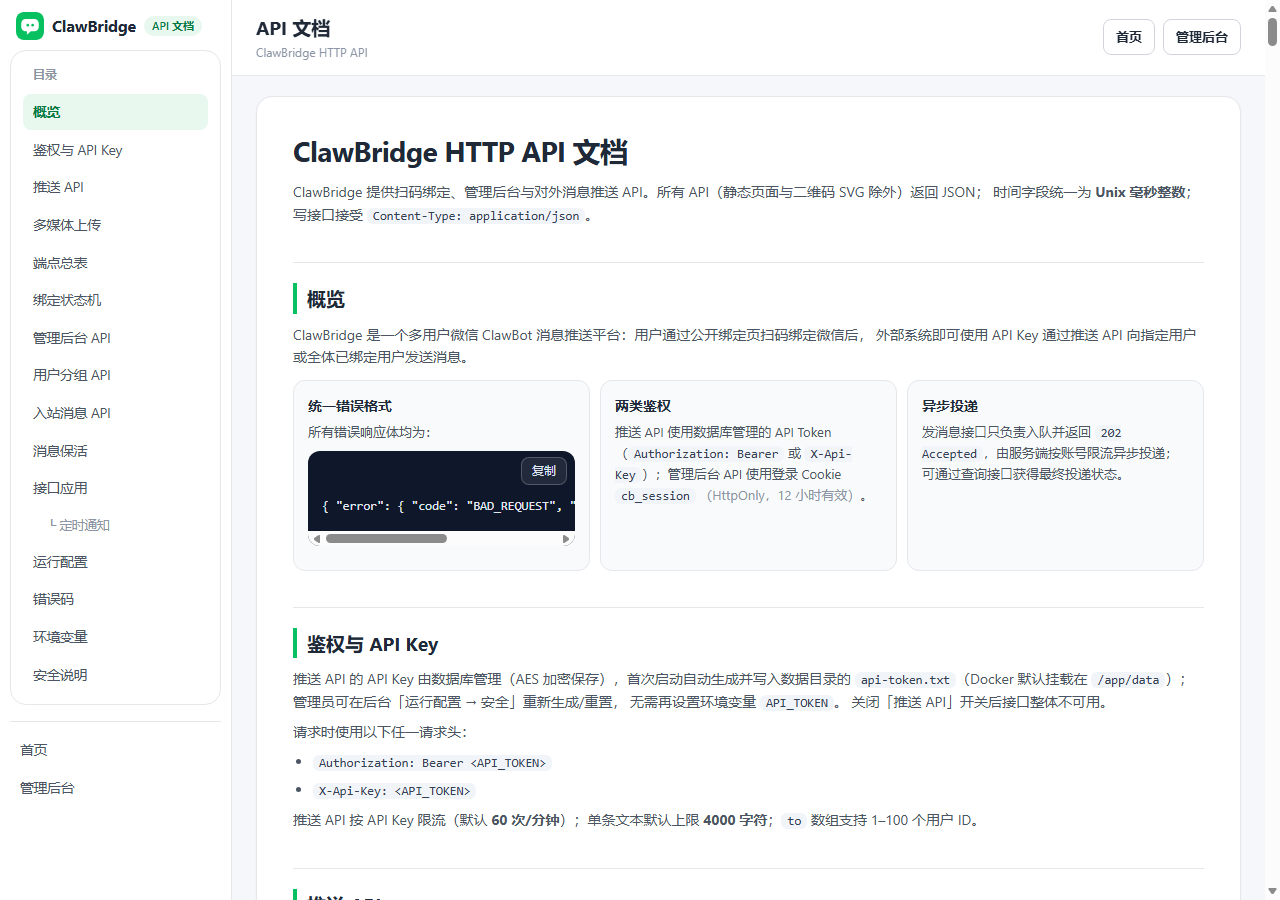
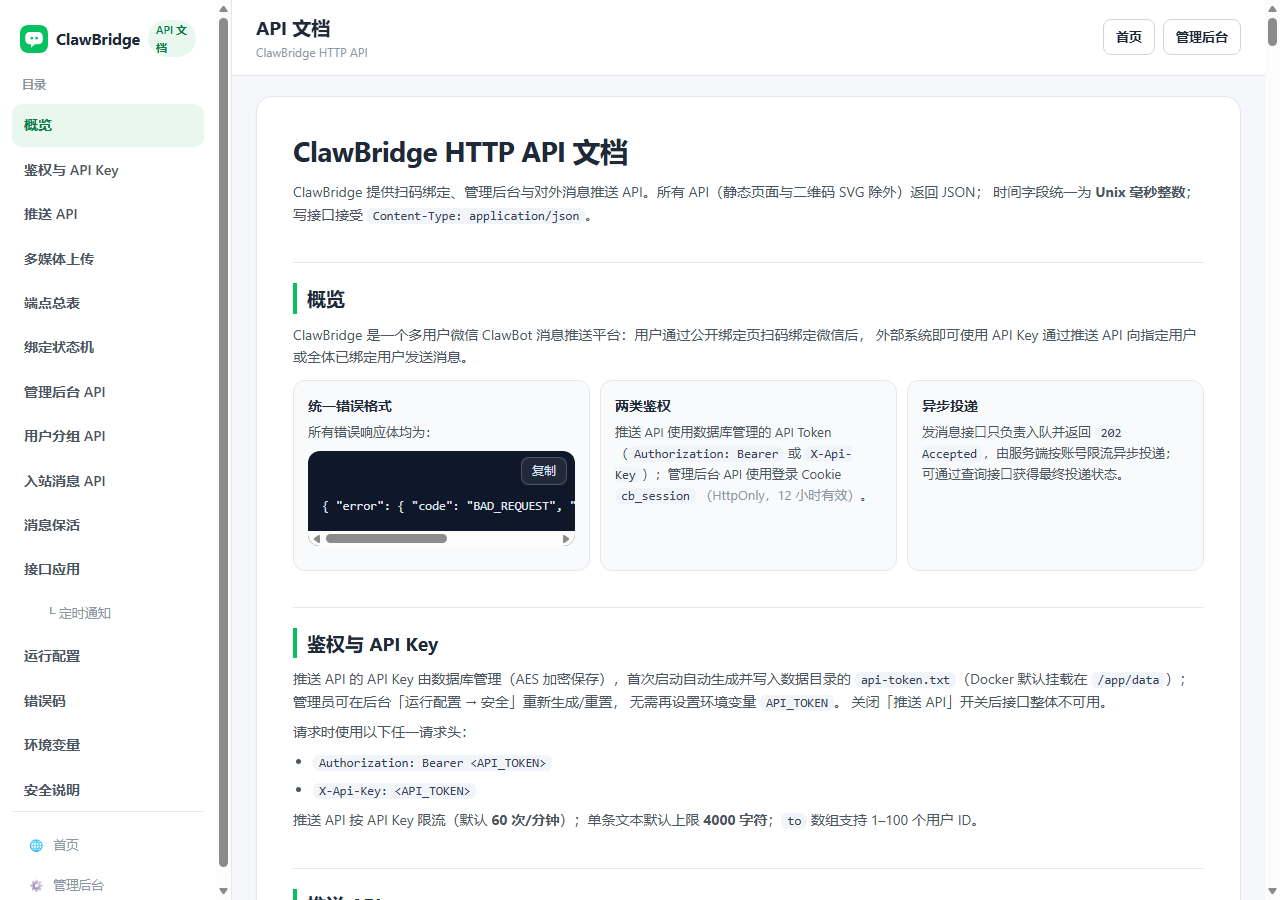
feat(ui): 首页/文档导航统一为后台式侧边栏 + 顶栏
- 首页改为与后台/文档一致的壳层：左侧品牌+导航，右侧 sticky 顶栏+内容；
  移动端 ☰ 抽屉、遮罩、×/Esc/链接自动关闭
- 文档侧栏去掉卡片式目录，链接/间距/选中态对齐后台 menu-item；
  footer 改为首页/管理后台；修复抽屉遮罩盖住侧栏的 z-index 问题
- docs/bind 共用 common.js initSidebarDrawer，减少重复逻辑
- 品牌/导航文案统一：绑定入口称首页，/bind 302 → /
- 更新 docs-page 截图；新增首页导航壳测试；全量 348/348（unit 257 + e2e 91）

diff --git a/web/index.html b/web/index.html
@@ -12,26 +12,48 @@
 <body class="page-public">
   <a class="skip-link" href="#main">跳到主要内容</a>
 
-  <header class="site-header">
-    <div class="site-header-inner">
-      <a class="brand" href="/" aria-label="ClawBridge 首页">
-        <svg class="brand-icon" viewBox="0 0 64 64" aria-hidden="true" focusable="false">
-          <rect width="64" height="64" rx="14" fill="#07C160"></rect>
-          <path d="M22 16h20a10 10 0 0 1 10 10v8a10 10 0 0 1-10 10H34l-9 8v-8h-3a10 10 0 0 1-10-10v-8a10 10 0 0 1 10-10z" fill="#ffffff"></path>
-          <circle cx="27" cy="30" r="3" fill="#07C160"></circle>
-          <circle cx="38" cy="30" r="3" fill="#07C160"></circle>
-        </svg>
-        <span class="brand-name">ClawBridge</span>
-      </a>
-      <nav class="site-nav" aria-label="主导航">
-        <a class="nav-link" href="/">首页</a>
-        <a class="nav-link" href="/docs">API 文档</a>
-        <a class="nav-link nav-link-strong" href="/admin">管理后台</a>
-      </nav>
-    </div>
-  </header>
+  <aside class="doc-sidebar">
+    <a class="brand doc-sidebar-brand" href="/" aria-label="ClawBridge 首页">
+      <svg class="brand-icon" viewBox="0 0 64 64" aria-hidden="true" focusable="false">
+        <rect width="64" height="64" rx="14" fill="#07C160"></rect>
+        <path d="M22 16h20a10 10 0 0 1 10 10v8a10 10 0 0 1-10 10H34l-9 8v-8h-3a10 10 0 0 1-10-10v-8a10 10 0 0 1 10-10z" fill="#ffffff"></path>
+        <circle cx="27" cy="30" r="3" fill="#07C160"></circle>
+        <circle cx="38" cy="30" r="3" fill="#07C160"></circle>
+      </svg>
+      <span class="brand-name">ClawBridge</span>
+      <span class="brand-tag">首页</span>
+    </a>
+    <button id="home-nav-close" class="docs-nav-close" type="button" aria-label="关闭导航">×</button>
+    <nav id="home-nav" class="doc-nav" aria-label="主导航">
+      <a class="doc-nav-link is-active" href="/"><span aria-hidden="true">🏠</span> 首页</a>
+      <a class="doc-nav-link" href="/docs"><span aria-hidden="true">📖</span> API 文档</a>
+      <a class="doc-nav-link" href="/admin"><span aria-hidden="true">⚙</span> 管理后台</a>
+    </nav>
+  </aside>
 
-  <main id="main" class="container">
+  <div id="home-nav-overlay" class="docs-nav-overlay" hidden></div>
+
+  <div class="docs-main">
+    <header class="docs-topbar">
+      <button
+        id="home-menu-toggle"
+        class="docs-menu-toggle"
+        type="button"
+        aria-label="打开导航"
+        aria-controls="home-nav"
+        aria-expanded="false"
+      >☰</button>
+      <div class="docs-topbar-title">
+        <strong>首页</strong>
+        <span>微信扫码绑定 · ClawBridge</span>
+      </div>
+      <div class="docs-topbar-actions">
+        <a class="btn btn-secondary btn-sm" href="/docs">API 文档</a>
+        <a class="btn btn-secondary btn-sm" href="/admin">管理后台</a>
+      </div>
+    </header>
+
+    <main id="main" class="docs-content"><div class="container">
     <section class="hero" aria-labelledby="hero-title">
       <span class="hero-badge">微信 ClawBot · 消息通道</span>
       <h1 id="hero-title" class="hero-title">扫码绑定微信<br class="br-mobile">接收 ClawBridge 消息</h1>
@@ -147,9 +169,10 @@
         同一网络下 1 小时内生成次数有限；如有问题请联系部署管理员。
       </p>
     </section>
-  </main>
+      </div>
+    </main>
 
-  <footer class="site-footer">
+    <footer class="site-footer">
     <p class="footer-line">
       <span class="footer-brand">ClawBridge</span>
       <span class="footer-sep">·</span>
@@ -160,7 +183,8 @@
       <a class="footer-link" href="/admin">管理后台</a>
       <a class="footer-link" href="/docs">API 文档</a>
     </p>
-  </footer>
+    </footer>
+  </div>
 
   <script type="module" src="/assets/bind.js"></script>
 </body>

diff --git a/web/assets/docs.js b/web/assets/docs.js
@@ -5,7 +5,7 @@
  * - 侧边目录高亮
  * - 返回顶部
  */
-import { $, $$, el, toast } from './common.js';
+import { $, $$, el, toast, initSidebarDrawer } from './common.js';
 
 init();
 
@@ -175,32 +175,11 @@ function initBackToTop() {
 /* ------------------------------------------------------------------ */
 
 function initTocDrawer() {
-  const toggle = $('#docs-menu-toggle');
-  const sidebar = $('.doc-sidebar');
-  const overlay = $('#docs-nav-overlay');
-  const closeButton = $('#docs-nav-close');
-  const nav = $('#docs-nav');
-  if (!toggle || !sidebar || !overlay || !closeButton || !nav) return;
-  const media = window.matchMedia('(max-width: 899px)');
-
-  const isOpen = () => document.body.classList.contains('docs-nav-open');
-  const setOpen = (open) => {
-    const active = Boolean(open && media.matches);
-    document.body.classList.toggle('docs-nav-open', active);
-    toggle.setAttribute('aria-expanded', active ? 'true' : 'false');
-    overlay.hidden = !active;
-    if (active) closeButton.focus({ preventScroll: true });
-  };
-
-  toggle.addEventListener('click', () => setOpen(!isOpen()));
-  overlay.addEventListener('click', () => setOpen(false));
-  closeButton.addEventListener('click', () => setOpen(false));
-  nav.addEventListener('click', (event) => {
-    if (event.target.closest('a') && media.matches) setOpen(false);
+  initSidebarDrawer({
+    toggleId: 'docs-menu-toggle',
+    sidebarSelector: '.doc-sidebar',
+    overlayId: 'docs-nav-overlay',
+    closeId: 'docs-nav-close',
+    navId: 'docs-nav',
   });
-  document.addEventListener('keydown', (event) => {
-    if (event.key === 'Escape' && isOpen()) setOpen(false);
-  });
-  media.addEventListener('change', () => setOpen(false));
-  setOpen(false);
 }

diff --git a/web/assets/common.js b/web/assets/common.js
@@ -867,3 +867,43 @@ export function debounce(fn, wait = 250) {
   };
   return wrapped;
 }
+
+/**
+ * 移动端侧边抽屉：后台/文档/首页共用。
+ * 需存在 toggle、sidebar、overlay、close、nav 元素；<900px 时抽屉滑出。
+ */
+export function initSidebarDrawer({
+  toggleId,
+  sidebarSelector,
+  overlayId,
+  closeId,
+  navId,
+  breakpoint = '(max-width: 899px)',
+} = {}) {
+  const toggle = toggleId ? $('#' + toggleId) : null;
+  const sidebar = sidebarSelector ? $(sidebarSelector) : null;
+  const overlay = overlayId ? $('#' + overlayId) : null;
+  const closeButton = closeId ? $('#' + closeId) : null;
+  const nav = navId ? $('#' + navId) : null;
+  if (!toggle || !sidebar || !overlay || !closeButton || !nav) return;
+  const media = window.matchMedia(breakpoint);
+  const isOpen = () => document.body.classList.contains('docs-nav-open');
+  const setOpen = (open) => {
+    const active = Boolean(open && media.matches);
+    document.body.classList.toggle('docs-nav-open', active);
+    toggle.setAttribute('aria-expanded', active ? 'true' : 'false');
+    overlay.hidden = !active;
+    if (active) closeButton.focus({ preventScroll: true });
+  };
+  toggle.addEventListener('click', () => setOpen(!isOpen()));
+  overlay.addEventListener('click', () => setOpen(false));
+  closeButton.addEventListener('click', () => setOpen(false));
+  nav.addEventListener('click', (event) => {
+    if (event.target.closest('a') && media.matches) setOpen(false);
+  });
+  document.addEventListener('keydown', (event) => {
+    if (event.key === 'Escape' && isOpen()) setOpen(false);
+  });
+  media.addEventListener('change', () => setOpen(false));
+  setOpen(false);
+}

diff --git a/web/assets/style.css b/web/assets/style.css
@@ -3863,3 +3863,87 @@ body.admin-authed .admin-main {
     box-shadow: 0 12px 40px rgba(15, 23, 42, 0.25);
   }
 }
+/* API 文档侧栏：对齐后台 .admin-sidebar / .menu-item / .sidebar-footer 样式 */
+.doc-sidebar {
+  z-index: 120;
+  padding: 18px 12px 14px;
+}
+
+.doc-sidebar-brand {
+  padding: 2px 8px 16px;
+  margin: 0;
+}
+
+.doc-sidebar .doc-nav {
+  gap: 2px;
+  padding: 0;
+  border: 0;
+  border-radius: 0;
+  background: transparent;
+}
+
+.doc-sidebar .doc-nav-link {
+  display: flex;
+  align-items: center;
+  gap: 10px;
+  padding: 10px 12px;
+  border-radius: 10px;
+  color: var(--text-secondary);
+  font-size: 14px;
+  font-weight: 600;
+  text-decoration: none;
+}
+
+.doc-sidebar .doc-nav-link:hover {
+  background: var(--bg-soft);
+  color: var(--text);
+}
+
+.doc-sidebar .doc-nav-link.is-active {
+  background: var(--wechat-green-soft);
+  color: var(--success);
+}
+
+.doc-sidebar .doc-nav-link.doc-nav-sub {
+  padding-left: 34px;
+  font-size: 13px;
+  font-weight: 500;
+  color: var(--text-muted);
+}
+
+.doc-sidebar-footer {
+  gap: 6px;
+  margin-top: auto;
+  padding: 16px 8px 0;
+  border-top: 1px solid var(--border);
+}
+
+.doc-sidebar-footer .doc-nav-link {
+  display: flex;
+  align-items: center;
+  gap: 8px;
+  padding: 7px 8px;
+  border-radius: 8px;
+  color: var(--text-muted);
+  font-size: 12.5px;
+  font-weight: 500;
+}
+
+.doc-sidebar-footer .doc-nav-link:hover {
+  background: var(--bg-soft);
+  color: var(--text);
+}
+
+@media (max-width: 899px) {
+  .doc-sidebar {
+    padding: 52px 12px 14px;
+  }
+
+  .doc-sidebar-brand {
+    padding: 0 0 12px;
+  }
+}
+.doc-sidebar-brand .brand-tag {
+  flex-shrink: 0;
+  white-space: nowrap;
+}

diff --git a/tests/unit/frontend-pages.test.js b/tests/unit/frontend-pages.test.js
@@ -1351,3 +1351,18 @@ test('文档页：移动端目录使用侧边抽屉（与后台一致）', async
     assert.ok(css.includes(token), `style.css 应包含移动端抽屉样式：${token}`);
   }
 });
+test('首页：使用与后台一致的侧边栏/顶栏导航', async () => {
+  const html = await readPage('index.html');
+  for (const token of [
+    'class="doc-sidebar"',
+    'id="home-menu-toggle"',
+    'id="home-nav-overlay"',
+    'id="home-nav-close"',
+    'class="docs-topbar"',
+    'doc-sidebar-brand',
+  ]) {
+    assert.ok(html.includes(token), `首页应使用后台式导航壳：${token}`);
+  }
+  assert.ok(!html.includes('class="site-header"'), '首页不应再使用独立横向站点导航');
+  assert.ok(html.includes('id="bind-form"'), '首页仍应包含扫码绑定表单');
+});

diff --git a/web/assets/bind.js b/web/assets/bind.js
@@ -17,6 +17,7 @@ import {
   formatCountdown,
   toast,
   toastError,
+  initSidebarDrawer,
 } from './common.js';
 
 const POLL_INTERVAL_MS = 1000;
@@ -81,6 +82,13 @@ init();
 /* ------------------------------------------------------------------ */
 
 function init() {
+  initSidebarDrawer({
+    toggleId: 'home-menu-toggle',
+    sidebarSelector: '.doc-sidebar',
+    overlayId: 'home-nav-overlay',
+    closeId: 'home-nav-close',
+    navId: 'home-nav',
+  });
   if (!els.form) return; // 非绑定页（防御）
   els.form.addEventListener('submit', (event) => {
     event.preventDefault();

diff --git a/web/docs.html b/web/docs.html
@@ -44,8 +44,8 @@
           <a class="doc-nav-link" href="#security">安全说明</a>
         </nav>
         <div class="doc-sidebar-footer">
-          <a class="doc-nav-link" href="/">首页</a>
-          <a class="doc-nav-link" href="/admin">管理后台</a>
+          <a class="doc-nav-link" href="/"><span aria-hidden="true">🌐</span> 首页</a>
+          <a class="doc-nav-link" href="/admin"><span aria-hidden="true">⚙</span> 管理后台</a>
         </div>
       </aside>
 

diff --git a/README.md b/README.md
@@ -524,7 +524,7 @@ Dockerfile · docker-compose*.yml · .env.example
 
 | 验证项 | 命令 | 结果 |
 | --- | --- | --- |
-| 后端/核心单测（config、crypto、iLink 客户端、store、限流、auth、API、绑定状态机、监控、换绑、媒体加解密/上传管线/入站下载、DB 迁移、用户分组、入站 API、会话保活调度、分组级保活继承、接口应用规则引擎、定时通知调度与生效时间段、运行配置后台设置（第二批/密码与 API Token/系统重启）、后台菜单路由与初始化顺序、弹窗交互、移动端顶栏布局） | `npm run test:unit` | 256 项通过 |
+| 后端/核心单测（config、crypto、iLink 客户端、store、限流、auth、API、绑定状态机、监控、换绑、媒体加解密/上传管线/入站下载、DB 迁移、用户分组、入站 API、会话保活调度、分组级保活继承、接口应用规则引擎、定时通知调度与生效时间段、运行配置后台设置（第二批/密码与 API Token/系统重启）、后台菜单路由与初始化顺序、弹窗交互、移动端顶栏布局） | `npm run test:unit` | 257 项通过 |
 | 端到端黑盒（真实 app 进程 + mock 微信 API/CDN + mock 外部接口，覆盖绑定/配对码/刷新/推送/入站/鉴权/解绑/错误注入/图片视频文件收发/分组/入站消息 API/24h 保活/分组保活继承/接口应用/定时通知/运行配置设置/密码与 API Token） | `npm run test:e2e` | 91 项通过（约 10s，确定性，连跑多次稳定） |
 | mock 自身协议自测 | `node mock/selftest.mjs` | 25 项通过 |
 | 浏览器真实交互（Edge headless + CDP，绑定页/管理后台菜单路由与移动抽屉/文档页/媒体上传预览/分组/保活/分组保活继承/接口应用/定时通知/运行配置设置（含安全卡片）/重启容器 UI，CSP 与控制台异常检查） | 见交付说明 | 74 + 19 + 38 + 31 + 20 + 28 + 40 + 20 + 25 + 21 + 1 + 26 项通过 |
